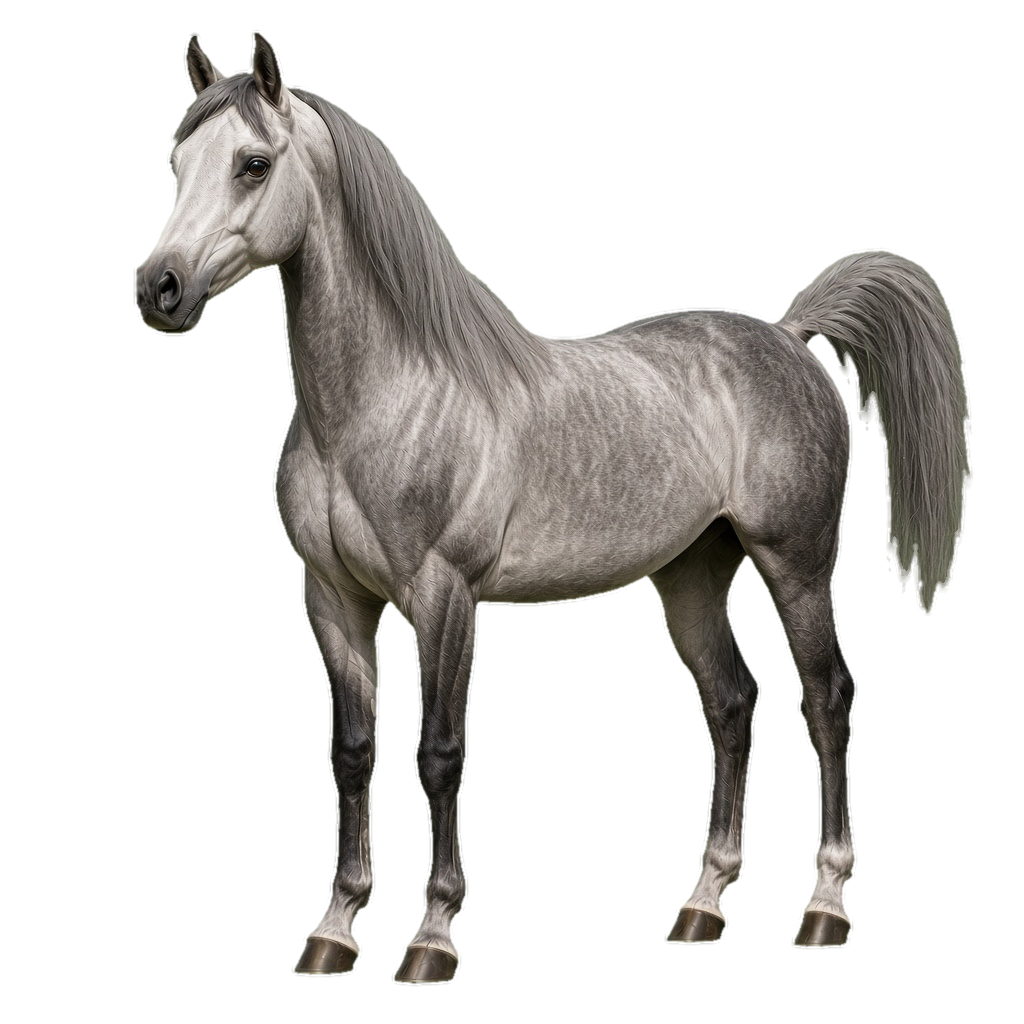
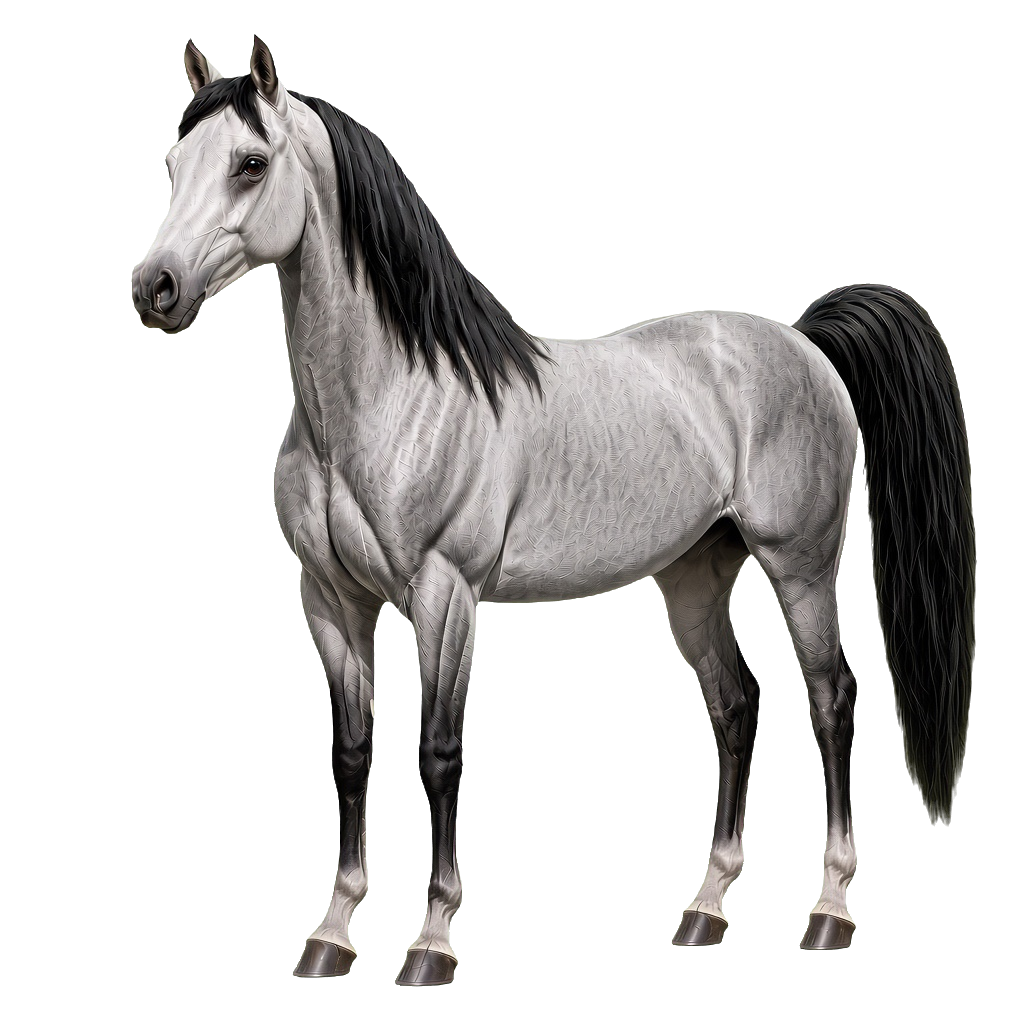
✨ feat: refresh Arabian coats and center face marks

Changed region(s): [[0.125, 0.0312, 0.9688, 0.9688]]

diff --git a/packages/core/src/lib/plugin/plugin-loader.spec.ts b/packages/core/src/lib/plugin/plugin-loader.spec.ts
@@ -61,7 +61,7 @@ describe('loadPlugin', () => {
       10,
     );
     expect(plugin.index.layers.get('markings-arabian')?.options).toHaveLength(
-      10,
+      9,
     );
     expect(plugin.index.layers.get('coat')?.blendMode).toBe('normal');
     expect(plugin.index.layers.get('body')?.options.map((o) => o.id)).toEqual([
